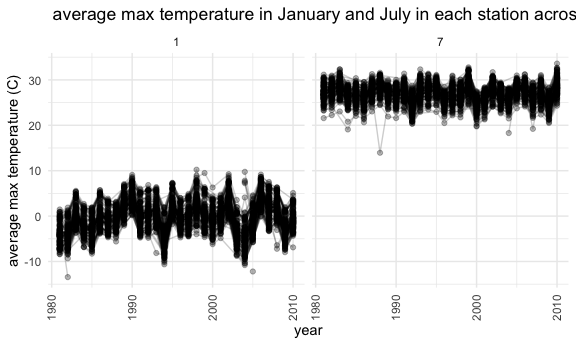
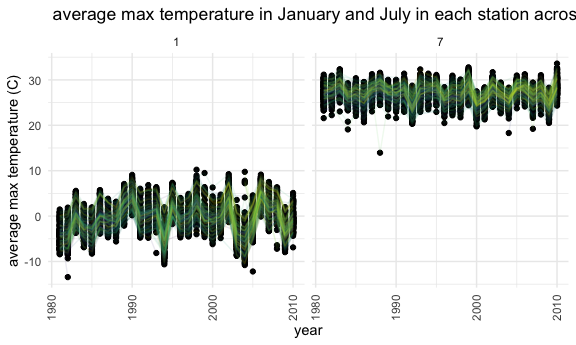
fix problem 3 part2 plot

diff --git a/p8105_hw3_mb4757.md b/p8105_hw3_mb4757.md
@@ -312,11 +312,13 @@ ny_noaa %>%
   group_by(id, year, month) %>% 
   summarise(avg_tmax = mean(tmax, na.rm = TRUE)) %>% 
   filter(month %in% c(1,7)) %>% 
+  drop_na() %>% 
 ggplot(aes(x = year, y = avg_tmax, group = id)) +
-geom_point(alpha = 0.3) + 
-geom_path(alpha = 0.2) +
+geom_point() + 
+geom_path(alpha = 0.1, aes(color = id)) +
   geom_smooth(se = TRUE) +
 facet_grid(~ month) + 
+  theme(legend.position = "none") +
 labs(title = " average max temperature in January and July in each station across years", x = "year", y = "average max temperature (C)") +
 theme(axis.text.x = element_text(angle = 90, vjust = 0.5, hjust = 1))
 ```
@@ -324,8 +326,6 @@ theme(axis.text.x = element_text(angle = 90, vjust = 0.5, hjust = 1))
     ## `summarise()` regrouping output by 'id', 'year' (override with `.groups` argument)
 
     ## `geom_smooth()` using method = 'loess' and formula 'y ~ x'
-
-    ## Warning: Removed 5970 rows containing non-finite values (stat_smooth).
 
     ## Warning in simpleLoess(y, x, w, span, degree = degree, parametric =
     ## parametric, : span too small. fewer data values than degrees of freedom.
@@ -539,18 +539,15 @@ theme(axis.text.x = element_text(angle = 90, vjust = 0.5, hjust = 1))
     ## Warning: Computation failed in `stat_smooth()`:
     ## NA/NaN/Inf in foreign function call (arg 5)
 
-    ## Warning: Removed 5970 rows containing missing values (geom_point).
-
-    ## Warning: Removed 5931 row(s) containing missing values (geom_path).
-
 <img src="p8105_hw3_mb4757_files/figure-gfm/p3_part2-1.png" width="90%" />
 
-In January, we can see that the average max temperature in each station
-across the years is oscillating. In July, the average max temperature in
-each station across the years is quite stable. Therefore, we cannot
-conclude that the temperature is warming across years or global warming.
-There are many outliers in the graph such as around January 1982, and
-July 1988.
+The average max temperature in July is higher than January. In January,
+we can see that the average max temperature in each station across the
+years is oscillating. In July, the average max temperature in each
+station across the years changes more stable than January. Therefore, we
+cannot conclude that the temperature is warming across years or global
+warming. There are many outliers in the graph such as the points around
+January 1982, and July 1988.
 
 ``` r
 tmax_tmin_plot =
